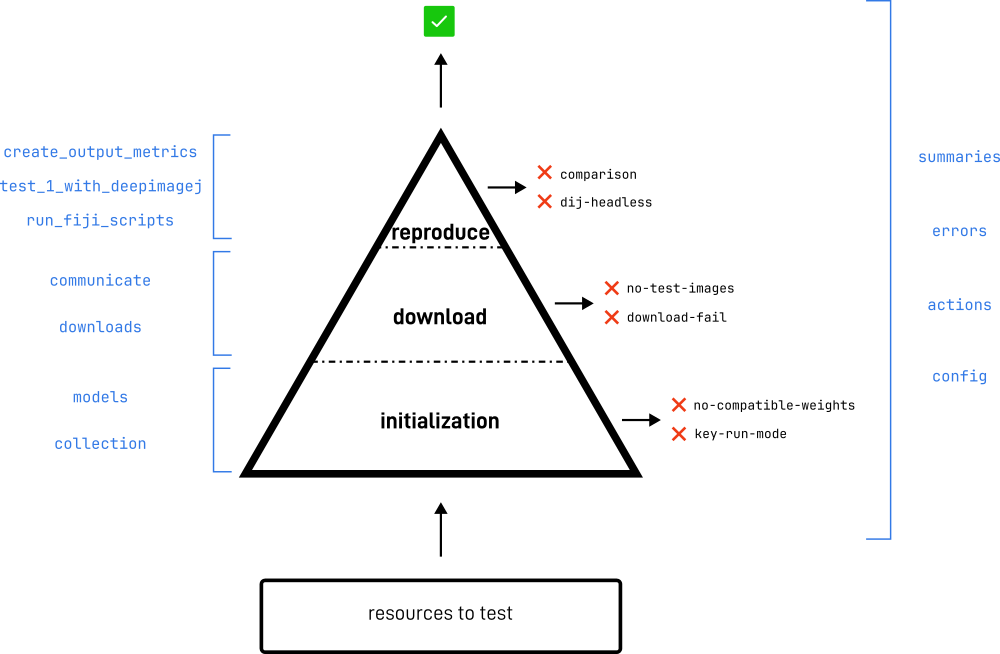
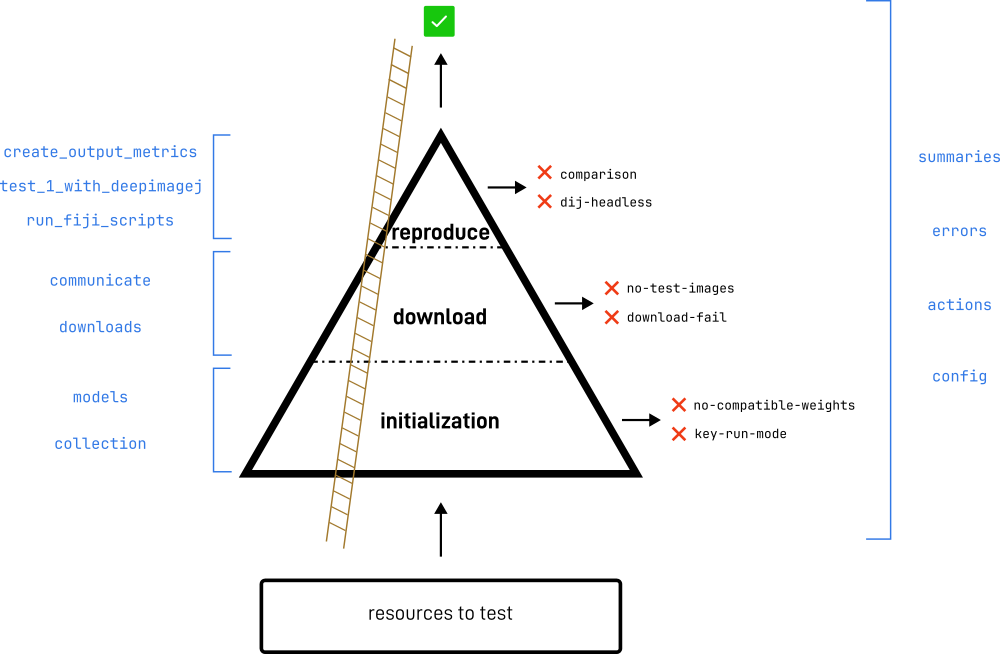
documentation on manually tested models

Changed region(s): [[0.372, 0.0612, 0.403, 0.4281], [0.341, 0.4281, 0.372, 0.7645], [0.31, 0.7645, 0.341, 0.8257]]

diff --git a/resources/compare_2_images.py b/resources/compare_2_images.py
@@ -1,0 +1,114 @@
+"""
+Fiji script to manually compare 2 images
+The first one open should be the results of inference with DeepImageJ
+The second, the expected sample output. Provided by the model
+"""
+
+import sys
+import json
+import os
+import shutil
+import time
+from ij import IJ
+from ij.plugin import ImageCalculator
+from ij import WindowManager as WM
+
+def my_print(s, indent="   *** "):
+    """start all prints with a default indent"""
+    print(indent + str(s))
+    sys.stdout.flush()
+
+# OPEN FIRST IN FIJI THE CI OUTPUT!
+l = WM.getIDList()
+
+imp1 = WM.getImage(l[1])
+imp2 = WM.getImage(l[0])
+
+print("Image 1 is: " + imp1.getTitle()) # sample output
+print("Image 2 is: " + imp2.getTitle())  # CI OUTPUT
+
+if imp2 is None:
+    my_print("Run did not produce output")
+    os._exit(1)
+
+
+def get5dims(imp):
+    """returns the 5 dimensions of an image in a list"""
+    width = imp.getWidth()
+    height = imp.getHeight()
+    channels = imp.getNChannels()
+    slices = imp.getNSlices()
+    frames = imp.getNFrames()
+    return [width, height, channels, slices, frames]
+
+print("Shape of the images: " + str(get5dims(imp1)))
+
+
+imp3 = ImageCalculator.run(imp1, imp2, "Subtract create 32-bit stack")
+imp4 = ImageCalculator.run(imp3, imp3, "Multiply create 32-bit stack")
+
+width, height, channels, slices, frames = get5dims(imp1)
+sum_mse = 0.0
+sum_mae = 0.0
+max_val = -sys.float_info.max
+for c in range(0, channels):
+    for z in range(0, slices):
+        for t in range(0, frames):
+            imp4.setPositionWithoutUpdate(c, z, t)
+            imp3.setPositionWithoutUpdate(c, z, t)
+            imp1.setPositionWithoutUpdate(c, z, t)
+            ip4 = imp4.getProcessor()
+            ip3 = imp3.getProcessor()
+            ip1 = imp1.getProcessor()
+            for x in range(0, width):
+                for y in range(0, height):
+                    sum_mse = sum_mse + ip4.getPixelValue(x, y)
+                    sum_mae = sum_mae + abs(ip3.getPixelValue(x, y))
+                    val = ip1.getPixelValue(x, y)
+                    if val > max_val:
+                        max_val = val
+mse = sum_mse / (width * height * channels * slices * frames)
+mae = sum_mae / (width * height * channels * slices * frames)
+
+# GET METRICS OF THE CENTER
+def get_start_end(size):
+    if size <= 3:
+        return [0, size]
+    return [int(size/4), int(size/2)+1]
+
+my_print("centers of {} are:\n     {}".format(get5dims(imp1), list(map(lambda x: get_start_end(x), get5dims(imp1)))))
+
+sum_mse_center = 0.0
+sum_mae_center = 0.0
+n_center_pixels = 0
+for c in range(*get_start_end(channels)):
+    for z in range(*get_start_end(slices)):
+        for t in range(*get_start_end(frames)):
+            imp4.setPositionWithoutUpdate(c, z, t)
+            imp3.setPositionWithoutUpdate(c, z, t)
+            imp1.setPositionWithoutUpdate(c, z, t)
+            ip4 = imp4.getProcessor()
+            ip3 = imp3.getProcessor()
+            ip1 = imp1.getProcessor()
+            for x in range(*get_start_end(width)):
+                for y in range(*get_start_end(height)):
+                    sum_mse_center = sum_mse_center + ip4.getPixelValue(x, y)
+                    sum_mae_center = sum_mae_center + abs(ip3.getPixelValue(x, y))
+                    n_center_pixels += 1
+
+mse_center = sum_mse_center / n_center_pixels
+mae_center = sum_mae_center / n_center_pixels
+
+# Mae and Mse will be calculated relative to the max intensity value
+metrics_dic = {"mse": mse/max_val,
+               "mae": mae/max_val,
+               "mse_center": mse_center/max_val,
+               "mae_center": mae_center/max_val,
+               "max-val": max_val}
+
+my_print("Max value: {}".format(metrics_dic["max-val"]))
+my_print("MSE (relative): {:.5g}".format(metrics_dic["mse"]))
+my_print("MSE center (relative): {:.5g}".format(metrics_dic["mse_center"]))
+my_print("MAE (relative): {:.5g}".format(metrics_dic["mae"]))
+my_print("MAE center (relative): {:.5g}".format(metrics_dic["mae_center"]))
+

diff --git a/README.md b/README.md
@@ -8,17 +8,18 @@ The CI-deepimagej-bioimage-io project enables continuous integration between Dee
 - [Getting Started](#getting-started)
   * [Prerequisites](#prerequisites)
   * [Installation](#installation)
-  * [Usage](#usage)
+  * [Goals](#goals)
     + [Model Card](#model-card)
-    + [Test Summary](#test-summary)
     + [Local Testing](#local-testing)
 - [System Overview](#system-overview)
+  * [CI stages](#ci-stages)
+  * [Manually tested models](#manually-tested-models)
 - [Implementation Details](#implementation-details)
   * [Python CI](#python-ci)
-  * [Clorjure CI (Deprecated)](#clorjure-ci--deprecated-)
+  * [Clojure CI (Deprecated)](#clojure-ci-deprecated)
 - [Contribute](#contribute)
 - [License](#license)
-- [Resources:](#resources-)
+- [Resources](#resources)
 
 ## Introduction 
 DeepImageJ is an open-source plugin for ImageJ that integrates deep learning models into the ImageJ ecosystem. The BioImage Model Zoo is a repository of pre-trained deep learning models designed for biological image analysis. This project aims to bridge the gap between the two, allowing users to easily utilize models from the BioImage Model Zoo within DeepImageJ's environment.
@@ -40,7 +41,7 @@ Clone this repository:
 git clone https://github.com/deepimagej/CI-deepimagej-bioimage-io.git
 ``` 
 
-### Usage
+### Goals
 
 #### Model Card
 Models that pass the CI will display on the webpage similarly to the figure below. In the Test Summary section of the model card, clicking on [more details] will reveal additional information about the CI process.
@@ -52,13 +53,6 @@ On the other hand, models that fail will display the image below on its model ca
 
 The error information can be helpful, as it specifies the where the testing process failed.
 
-#### Test Summary
-The CI process is divided into three stages: init, download, and reproduce. Each stage tests the models for specific criteria, and the corresponding errors are detected and reported in the test summary.
-CI Stages:
-* **init**: The init stage parses the input and prepares the models to be tested.
-* **download**: The download stage involves the download of the models from the bioimage.io repository.
-* **reproduce**: The reproduce stage runs the models inside Fiji, with DeepImageJ in headless mode. It then compares the output images with the expected output to validate the model's compatibility with DeepImageJ.
-
 #### Local Testing
 - Change directory to `python_CI_scripts/` or to `java_CI_scripts/` to your own paths.
 - Follow the instructions from the `Readme.md` there.
@@ -69,19 +63,41 @@ The CI system operates as follows:
 * The output is a test summary for each of the input models, saved as YAML files.
 * The test summary is marked as "pass" if the model was able to run on DeepImageJ headless mode and produce the correct output.
 * If the model fails the testing process, the test summary contains information about the encountered error.
-* All test summaries are saved in the gh-pages branch of this repository.
-* Additional information, such as a detailed report with the results for every model (report.json) and a summary of the results (Readme.md), are also saved in that branch.
+* All test summaries are saved in the `gh-pages` branch of this repository.
+* Additional information, such as a detailed report with the results for every model (`report.json`) and a summary of the results (`Readme.md`) are also saved in that branch.
 
 ![ci_stages](resources/documentation_imgs/ci_concept.png)
 
+### CI stages
+The CI process is divided into three stages: init, download, and reproduce, as shown in the figure above.
+Each stage tests the models for specific criteria, and the corresponding errors are detected and reported in the test summary.
+
+1. **init**: The init stage parses the input and prepares the models to be tested.
+2. **download**: The download stage involves the download of the models from the bioimage.io repository.
+3. **reproduce**: The reproduce stage runs the models inside Fiji, with DeepImageJ in headless mode. It then compares the output images with the expected output to validate the model's compatibility with DeepImageJ.
+
+After the 3 stages are completed and all the test summaries generated, a report is automatically created with the results of the testing for every model. 
+
+The blue words from the figure represent code name-spaces that implement the functionality. Some code focuses only on the requirements for 1 of the stages, whereas other is needed all throughout the CI.
+
+### Manually tested models
+Manually tested models are represented by the ladder in the figure. These models are handled during the *init* stage and bypass all the other stages.
+A test summary that pass is generated for these models.
+The steps to specify models that have been manually tested are:
+1. Run model inference manually with DeepImageJ on Fiji's graphical user interface
+2. Check if the output of the inference is similar to the provided sample output.
+This [fiji script](resources/compare_2_images.py) (in the `resources/` folder) allows you to compare 2 images and provides the same metrics that the automatic CI uses.
+3. If steps 1. and 2. were correct, you should add an entry of the model (`resource_id` and `version_id`) to the list in `manually_tested.json` located [here](java_CI_scripts/pending_matrix/manually_tested.json)
+
+All models in that list are considered manually tested and will (by)pass the CI.
 
 ## Implementation Details
 
 ### Python CI
-The CI is implemented in Python and resides in the python folder of this GitHub repository. Detailed information on the Python CI process can be found in the corresponding Python CI README.
+The CI is implemented in Python and resides in the [python folder](python_CI_scripts) of this GitHub repository. Detailed information on the Python CI process can be found in the corresponding Readme.
 
-### Clorjure CI (Deprecated)
-The deprecated Clojure CI implementation is located in the clojure folder. It is no longer in use.
+### Clojure CI (Deprecated)
+The deprecated Clojure CI implementation is located in the [clojure folder](java_CI_scripts). It is no longer in use.
 
 ## Contribute
 Contributions are welcome! If you find any issues or have suggestions for improvements, please feel free to create an issue or submit a pull request. 
@@ -89,8 +105,8 @@ Contributions are welcome! If you find any issues or have suggestions for improv
 ## License
 This project is licensed under the [BSD 2-Clause License](LICENSE). See the [LICENSE](LICENSE) file for more details.
 
-## Resources:
+## Resources
 - [Bioimageio Wiki](https://github.com/bioimage-io/bioimage.io/wiki/Contribute-community-partner-specific-test-summaries)
-- [Issue](https://github.com/bioimage-io/collection-bioimage-io/issues/515)
+- [Bioimageio Issue](https://github.com/bioimage-io/collection-bioimage-io/issues/515)
 
 
